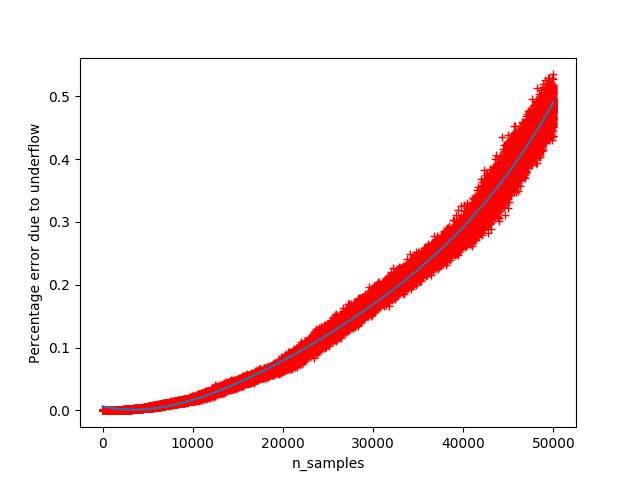
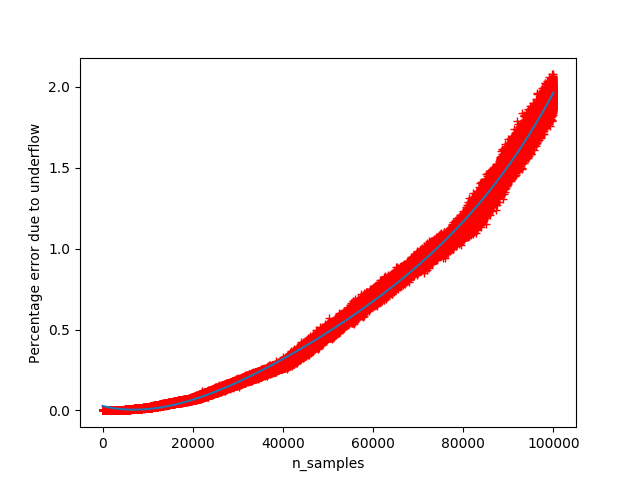
updated neflix_regression to use multiprocessing api

diff --git a/scientific_computing/readme.md b/scientific_computing/readme.md
@@ -4,7 +4,7 @@ This is only a initial attempt, there are many potential directions that the pro
 
 For example, distributing the compute amongst several machines, and exploring under-flow for different floating point representations <br> 
 Another possible direction is to use to the inspect and ast module in Python to retrieve all floating point ops from scripts and calculate errors due to underflow <br>
-The current version, generates exponents (with base 10) for sizes ranging from 1 to 50,000. The following diagrams show the percentage and absolute errors against the sample size: <br> 
+The current version, generates exponents (with base 10) for sizes ranging from 1 to 100,000. The following diagrams show the percentage and absolute errors against the sample size: <br> 
 
 <p align="center"> 
 	<img src="https://github.com/aa18514/Python/blob/master/scientific_computing/images/absolute_error.png" /> 
